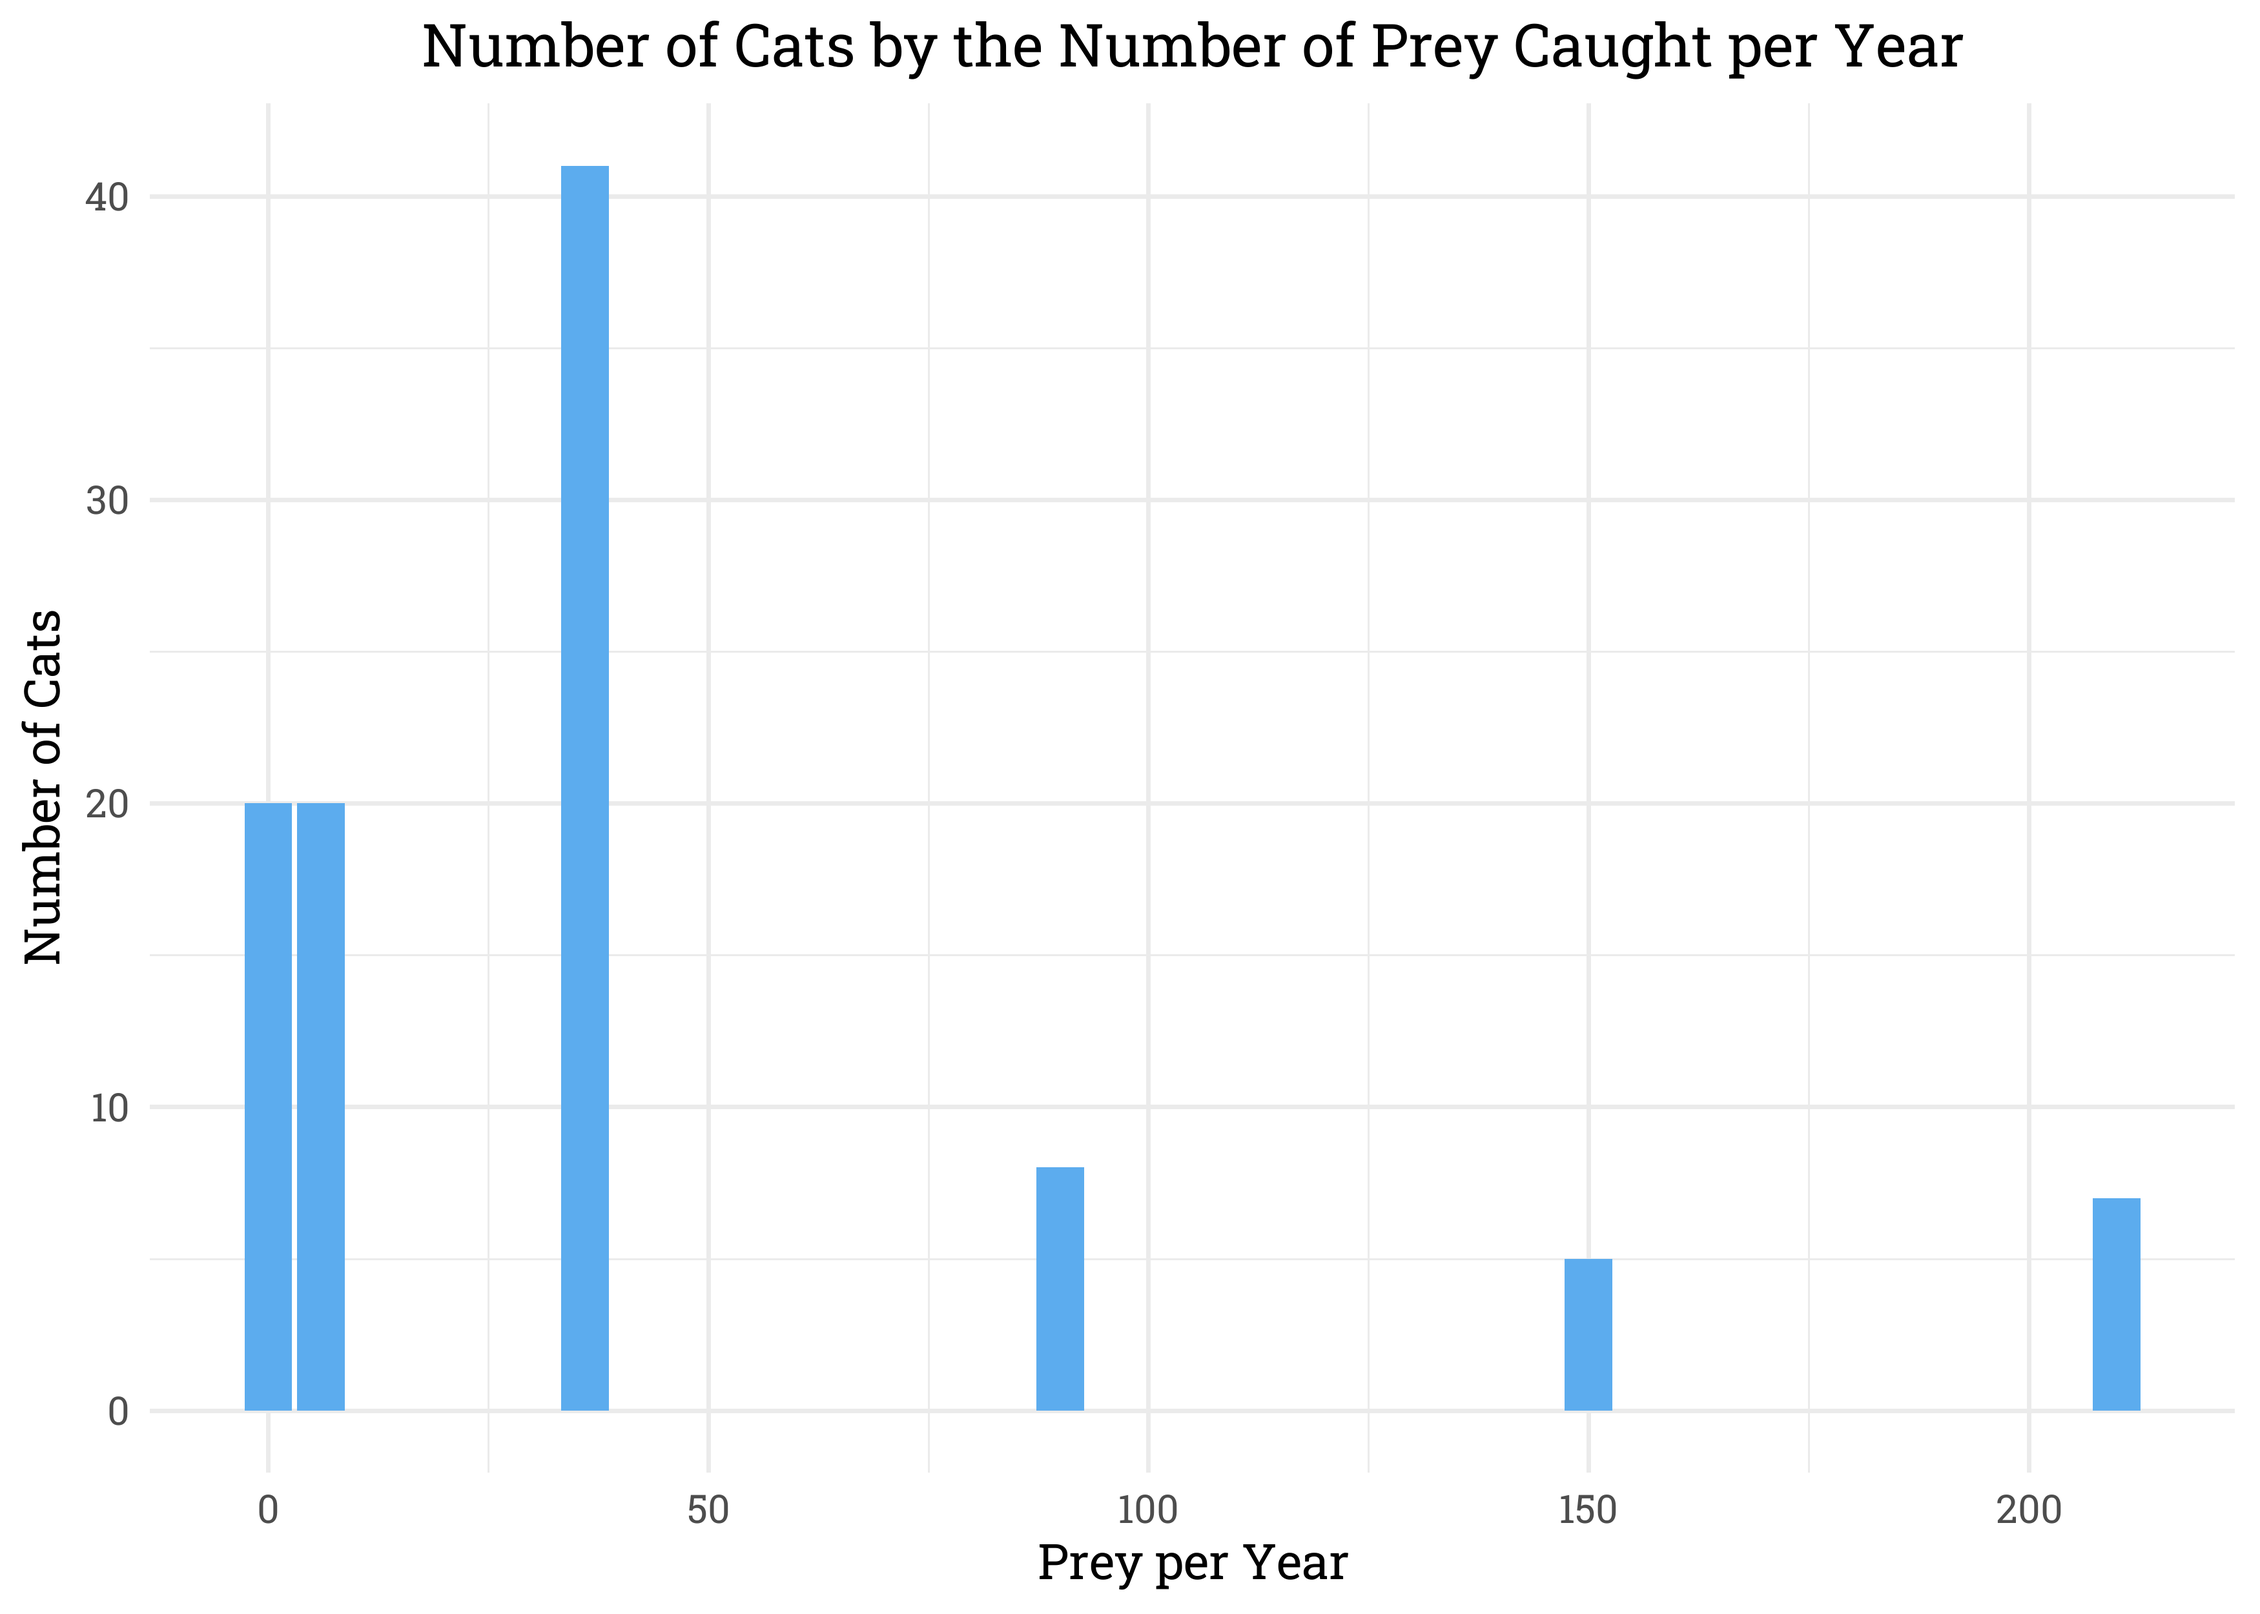
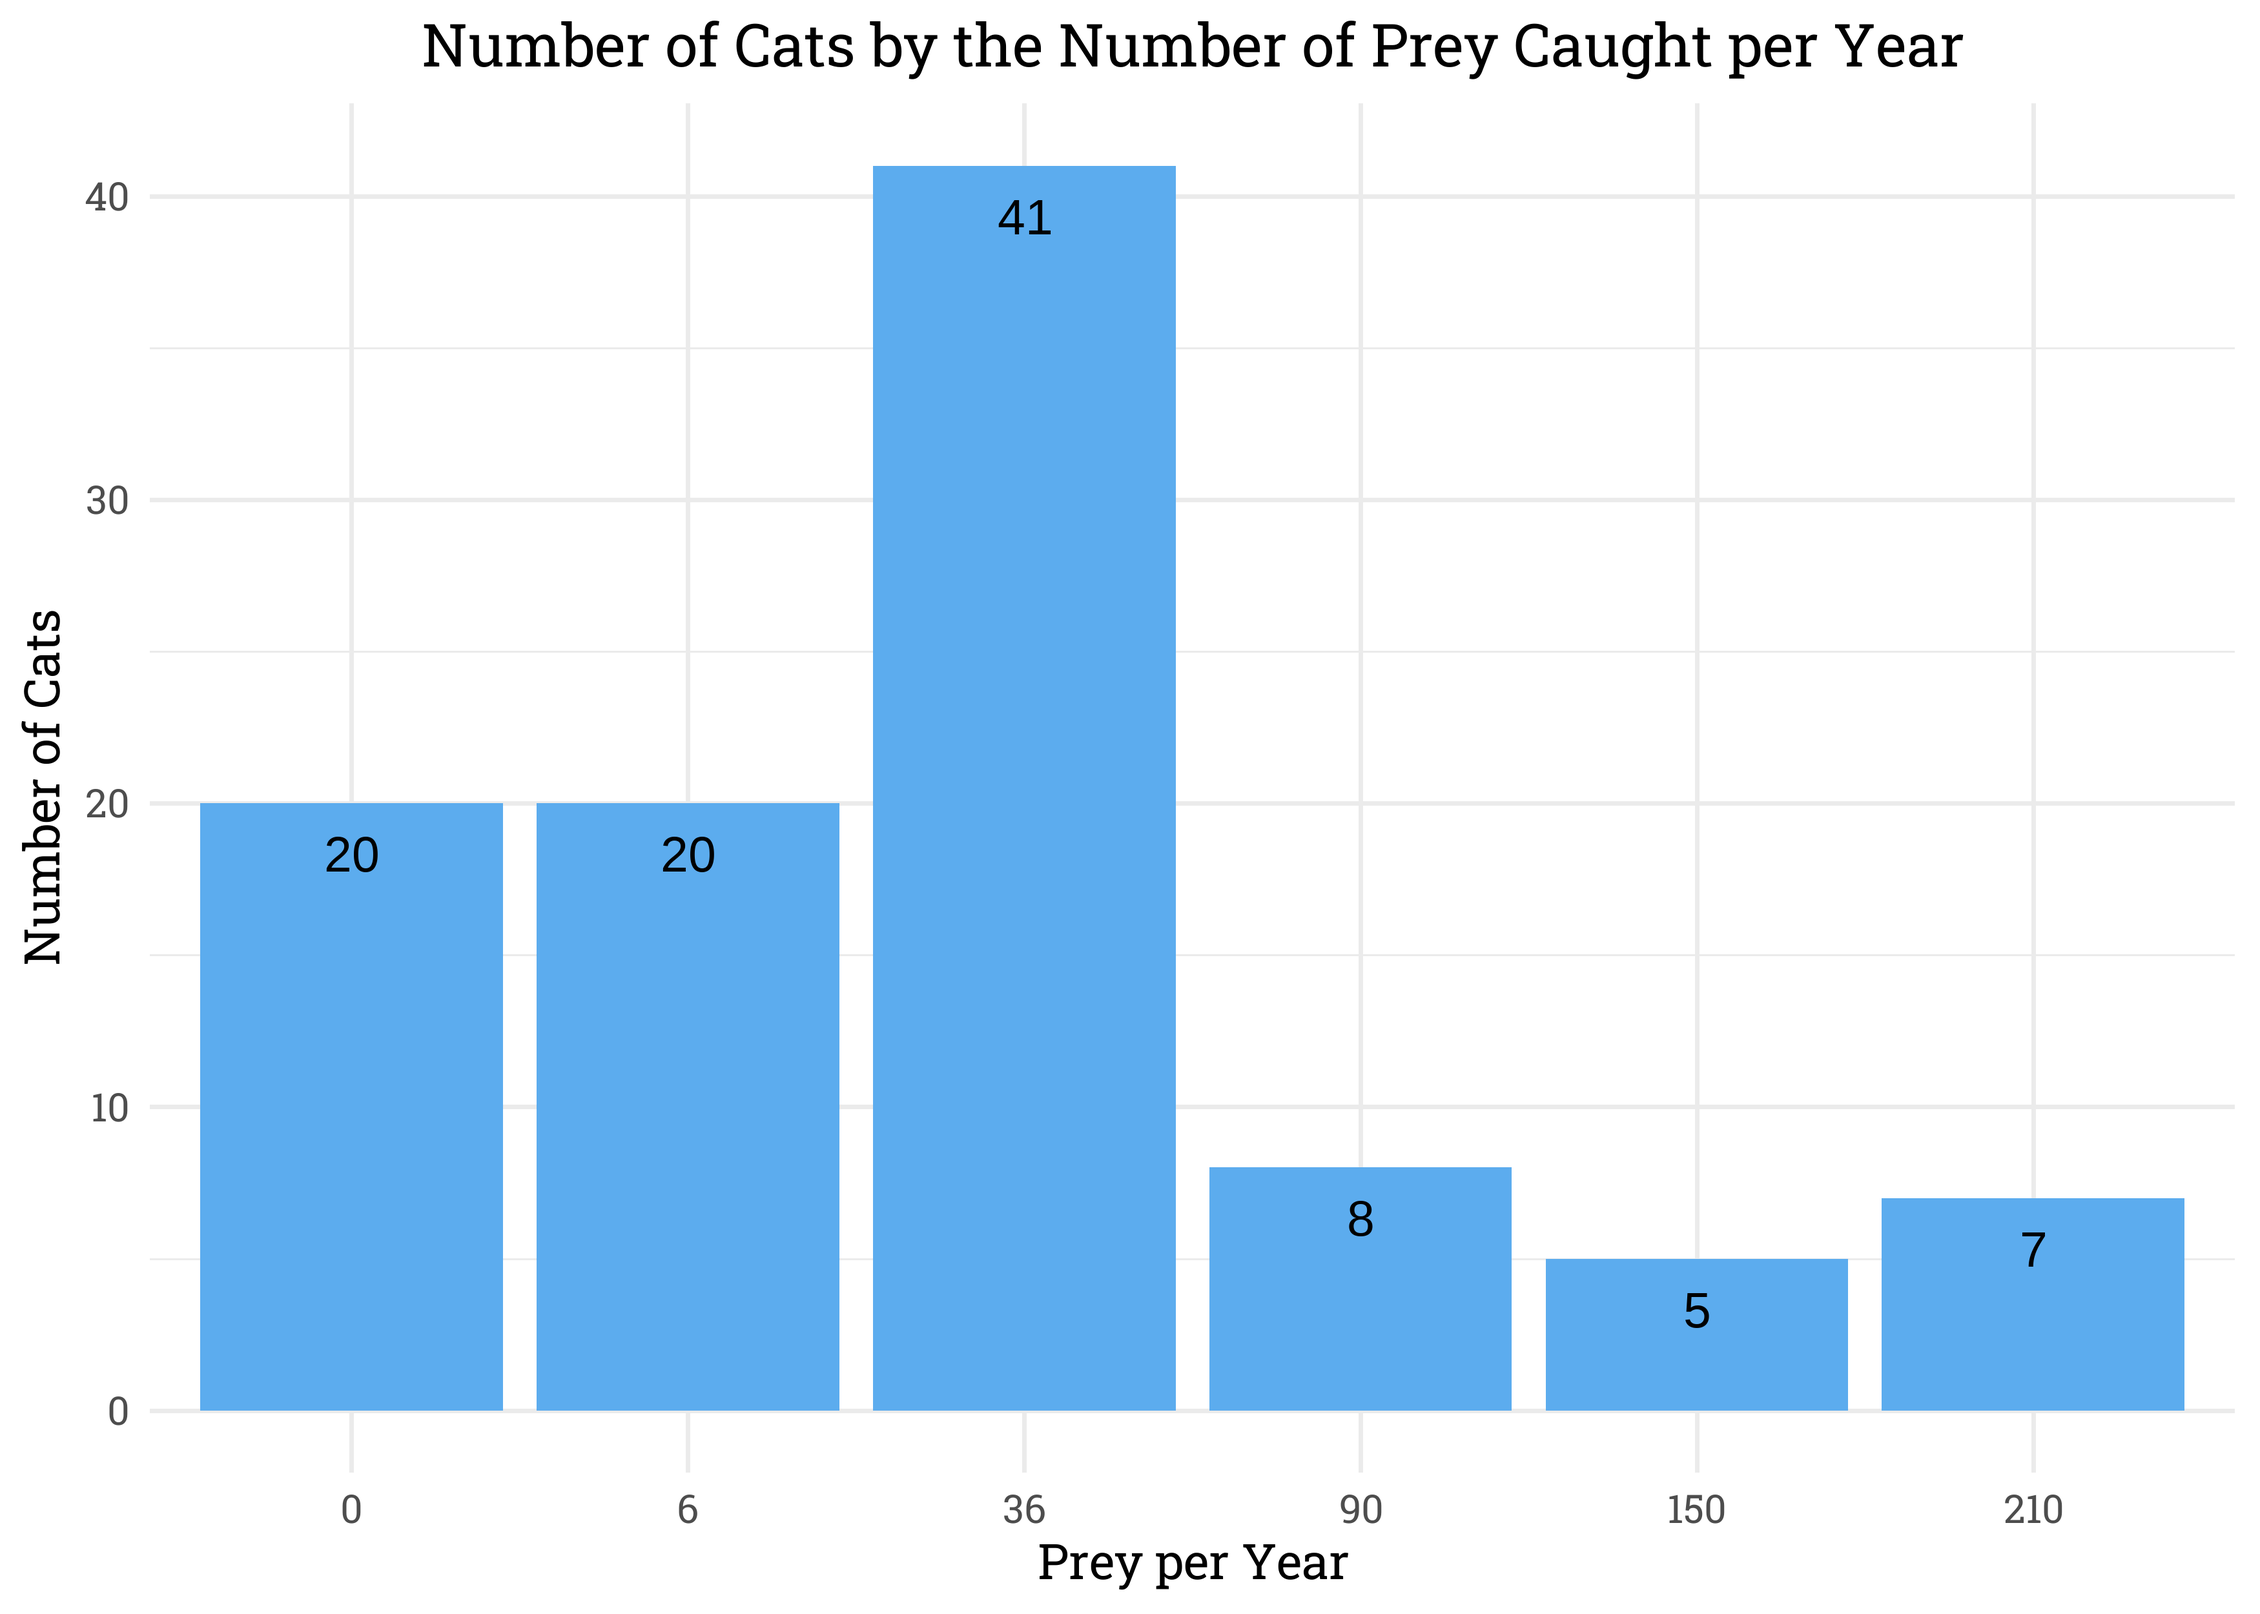
prey per year correction

Changed region(s): [[0.0623, 0.0936, 0.9654, 0.8736], [0.6851, 0.9048, 0.7163, 0.936]]

diff --git a/2023/01-31-23/UK-Cats.md b/2023/01-31-23/UK-Cats.md
@@ -6,7 +6,7 @@ Matthew
 -   <a href="#exploratory-data-analysis"
     id="toc-exploratory-data-analysis">Exploratory Data Analysis</a>
     -   <a href="#number-of-cats" id="toc-number-of-cats">Number of Cats</a>
-    -   <a href="#prey-per-month" id="toc-prey-per-month">Prey Per Month</a>
+    -   <a href="#prey-per-year" id="toc-prey-per-year">Prey Per Year</a>
     -   <a href="#hours-indoors" id="toc-hours-indoors">Hours Indoors</a>
     -   <a href="#cat-sex" id="toc-cat-sex">Cat Sex</a>
 
@@ -28,15 +28,17 @@ cats %>%
 
 ![](UK-Cats_files/figure-gfm/unnamed-chunk-2-1.png)<!-- -->
 
-## Prey Per Month
+## Prey Per Year
 
 ``` r
 cats %>% 
   count(prey_p_month) %>% 
   mutate(prey_year = 12*prey_p_month) %>% 
-  ggplot(aes(prey_year, n)) +
-  geom_col(fill = "steelblue2") +
-  labs(y = "Number of Cats", x = "Prey per Year", title = "Number of Cats by the Number of Prey Caught per Year")
+  ggplot(aes(fct_reorder(factor(prey_year),prey_year), n)) +
+  geom_col(fill = "steelblue2") + 
+  geom_text(aes(label = n), vjust = 2) +
+  labs(y = "Number of Cats", x = "Prey per Year", 
+       title = "Number of Cats by the Number of Prey Caught per Year")
 ```
 
 ![](UK-Cats_files/figure-gfm/unnamed-chunk-3-1.png)<!-- -->
